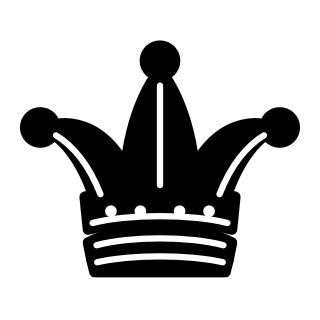
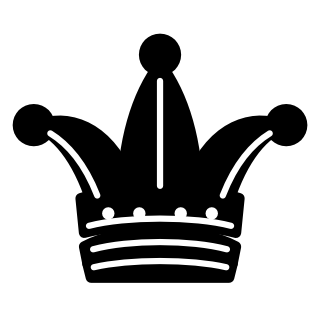
Bat, saddle and jester cap at 97%; bat wing lines apart; saddle line a steady 3.2 inside the outline (local only)

diff --git a/art/source/piece_options/make_final_vampire_squire.py b/art/source/piece_options/make_final_vampire_squire.py
@@ -7,6 +7,7 @@ strap and a stirrup). White and black, written to ../pieces/.
 Run from this folder:  python make_final_vampire_squire.py
 """
 import io
+import math
 import os
 import re
 import sys
@@ -58,13 +59,16 @@ def bat_path():
 def vampire(team):
     fill, line = colours(team)
     out = shape(bat_path(), fill)
-    # The wing bones: from each shoulder out to the wing's points.
+    # The wing bones: from near each shoulder out to the middle two of the
+    # wing's four points (Mac). Each starts a little way along its own line, so
+    # the two lines on a wing don't meet.
     bones = ""
-    # Just the middle two of each wing's four points (Mac).
     for tip in ((6.4, 21.4), (10.6, 26.4)):
         for x, y in (tip, _mirror(tip)):
             sx = 15.2 if x < 22.5 else 29.8
-            bones += "M %s,20.2 L %.2f,%.2f " % (sx, x, y)
+            dx, dy = x - sx, y - 20.2
+            k = 2.4 / math.hypot(dx, dy)
+            bones += "M %.2f,%.2f L %.2f,%.2f " % (sx + dx * k, 20.2 + dy * k, x, y)
     out += detail(bones, inner(team), 0.9)
     eyes = "#000" if team == "white" else "#fff"
     out += circle(20.9, 20.6, 0.9, eyes, "none") + circle(24.1, 20.6, 0.9, eyes, "none")
@@ -86,9 +90,10 @@ def squire(team):
     out += '<path d="%s" fill="%s" fill-rule="evenodd" stroke="#000" stroke-width="1.5"/>' % (STIRRUP, fill)
     out += shape(SADDLE, fill)
     # The line between the seat and the flap below it.
-    # Kept clear of the outline at both ends.
-    out += detail("M 11.4,17.9 C 14.2,18.6 16.2,20.4 17.4,22.9 C 18.6,25.4 20.5,26.6 23.4,26.6 L 32.6,26.6 "
-                  "C 35.6,26.6 37.4,24.8 37.4,21.6 L 37.4,13.6", inner(team), 1.1)
+    # It runs 3.2 inside the outline all the way along (Mac), stopping on the
+    # left where the seat gets too narrow to keep that gap.
+    out += detail("M 37.4,13.6 L 37.4,22.4 C 37.4,25 35.4,26.6 33,26.6 L 24.6,26.6 "
+                  "C 22.4,26.6 21.1,25.6 20.3,23.9 C 19.6,22.5 18.9,21.3 18.05,20.44", inner(team), 1.1)
     return out
 
 
@@ -101,8 +106,8 @@ def shrink(body, k, centre=(22.5, 24)):
 
 
 PIECES = {"vampire": vampire, "squire": squire}
-# Both drawn a touch smaller than first made (Mac).
-SHRINK = 0.92
+# Drawn at 97%: Mac found the full size a bit big, then 92% a bit small.
+SHRINK = 0.97
 
 if __name__ == "__main__":
     for name, draw in PIECES.items():

diff --git a/art/source/piece_options/make_final_jester_parapet.py b/art/source/piece_options/make_final_jester_parapet.py
@@ -34,8 +34,8 @@ def parapet(team):
 
 
 PIECES = {"jester": jester, "parapet": parapet}
-# The jester's cap drawn a touch smaller than first made (Mac).
-SHRINK = {"jester": 0.92}
+# The jester's cap drawn at 97% (Mac: full size a bit big, 92% a bit small).
+SHRINK = {"jester": 0.97}
 
 if __name__ == "__main__":
     sys.path.insert(0, HERE)
